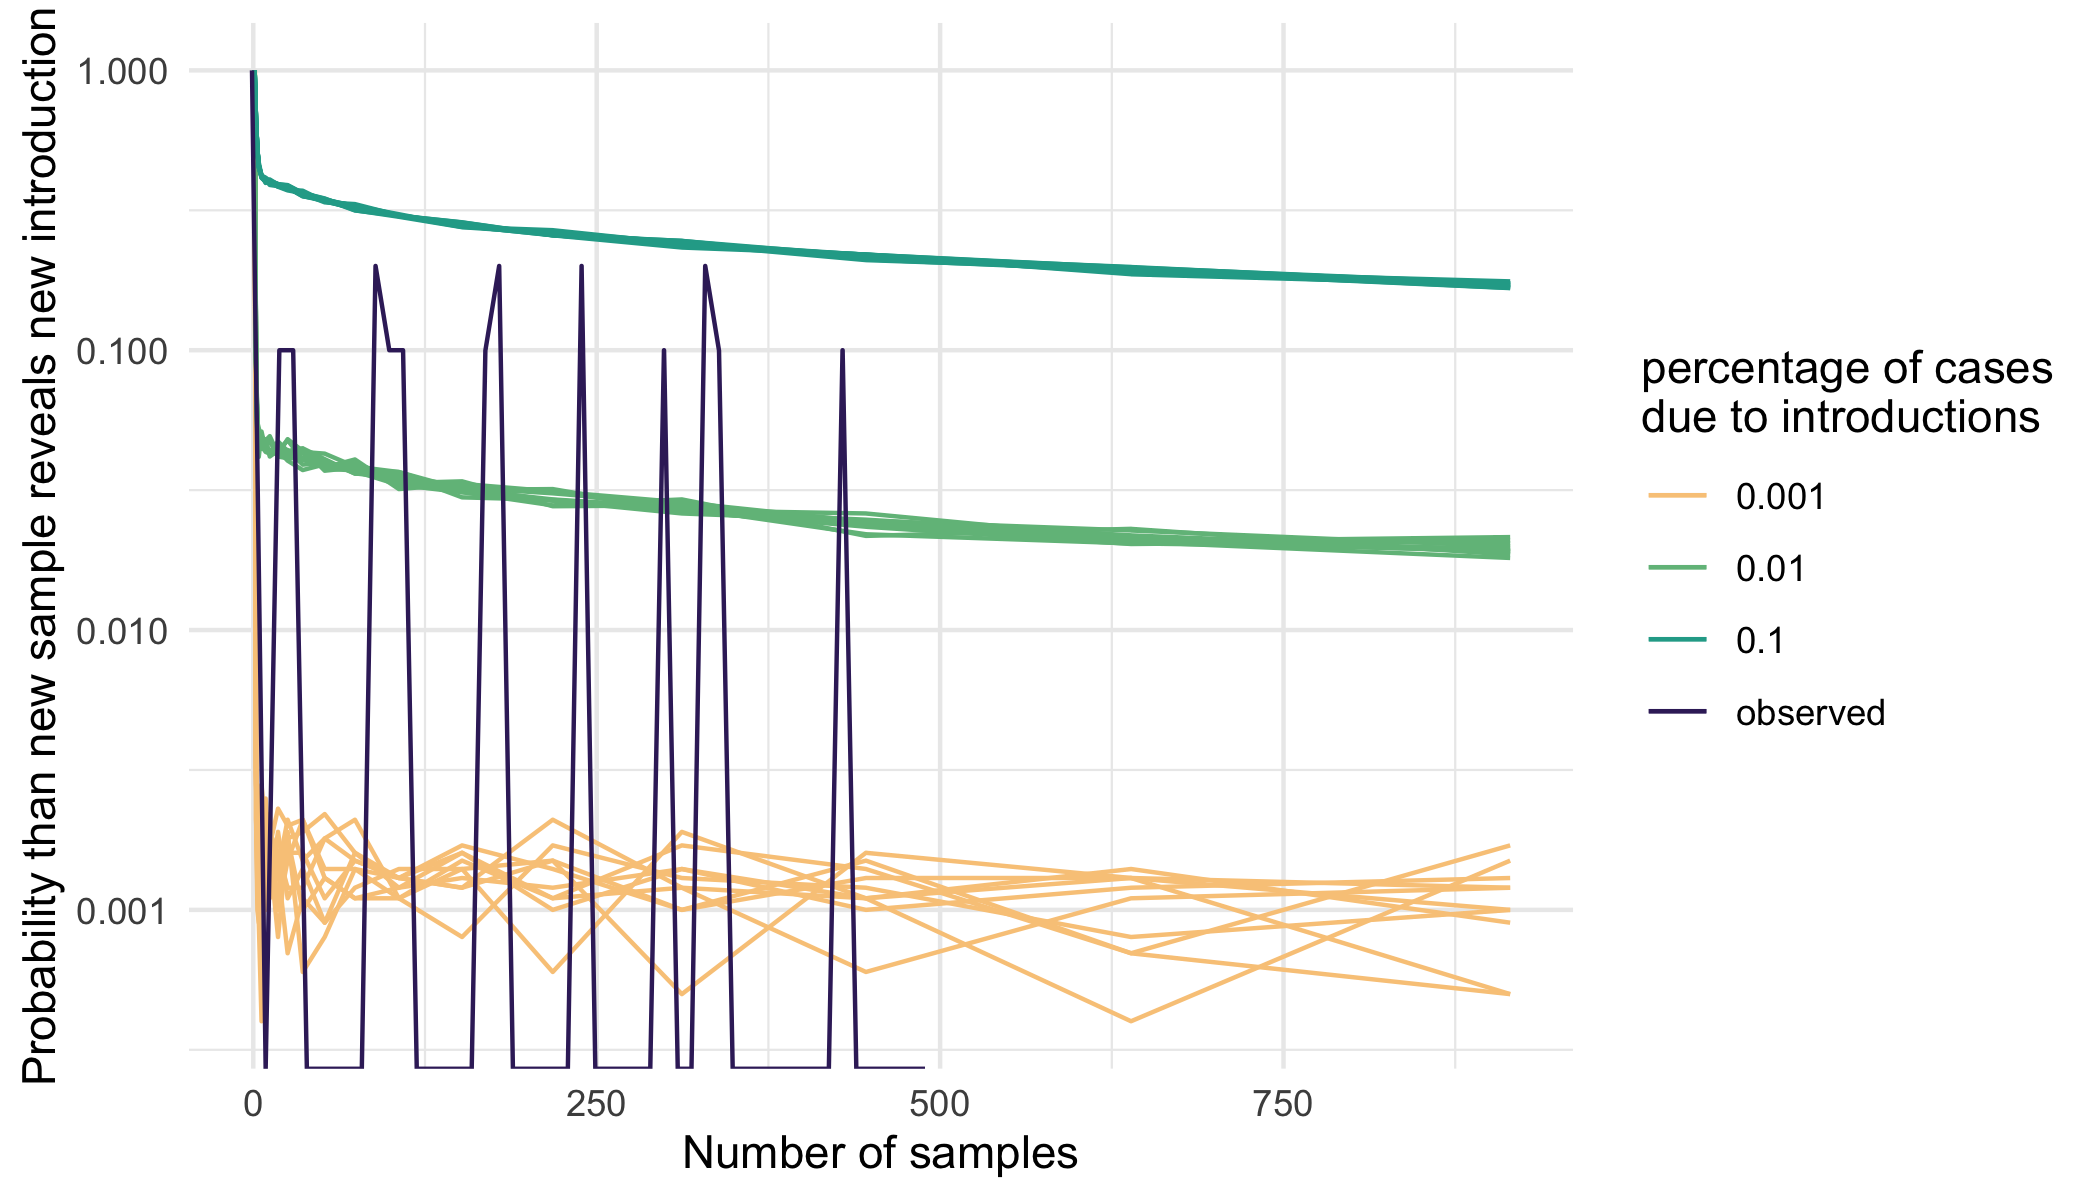
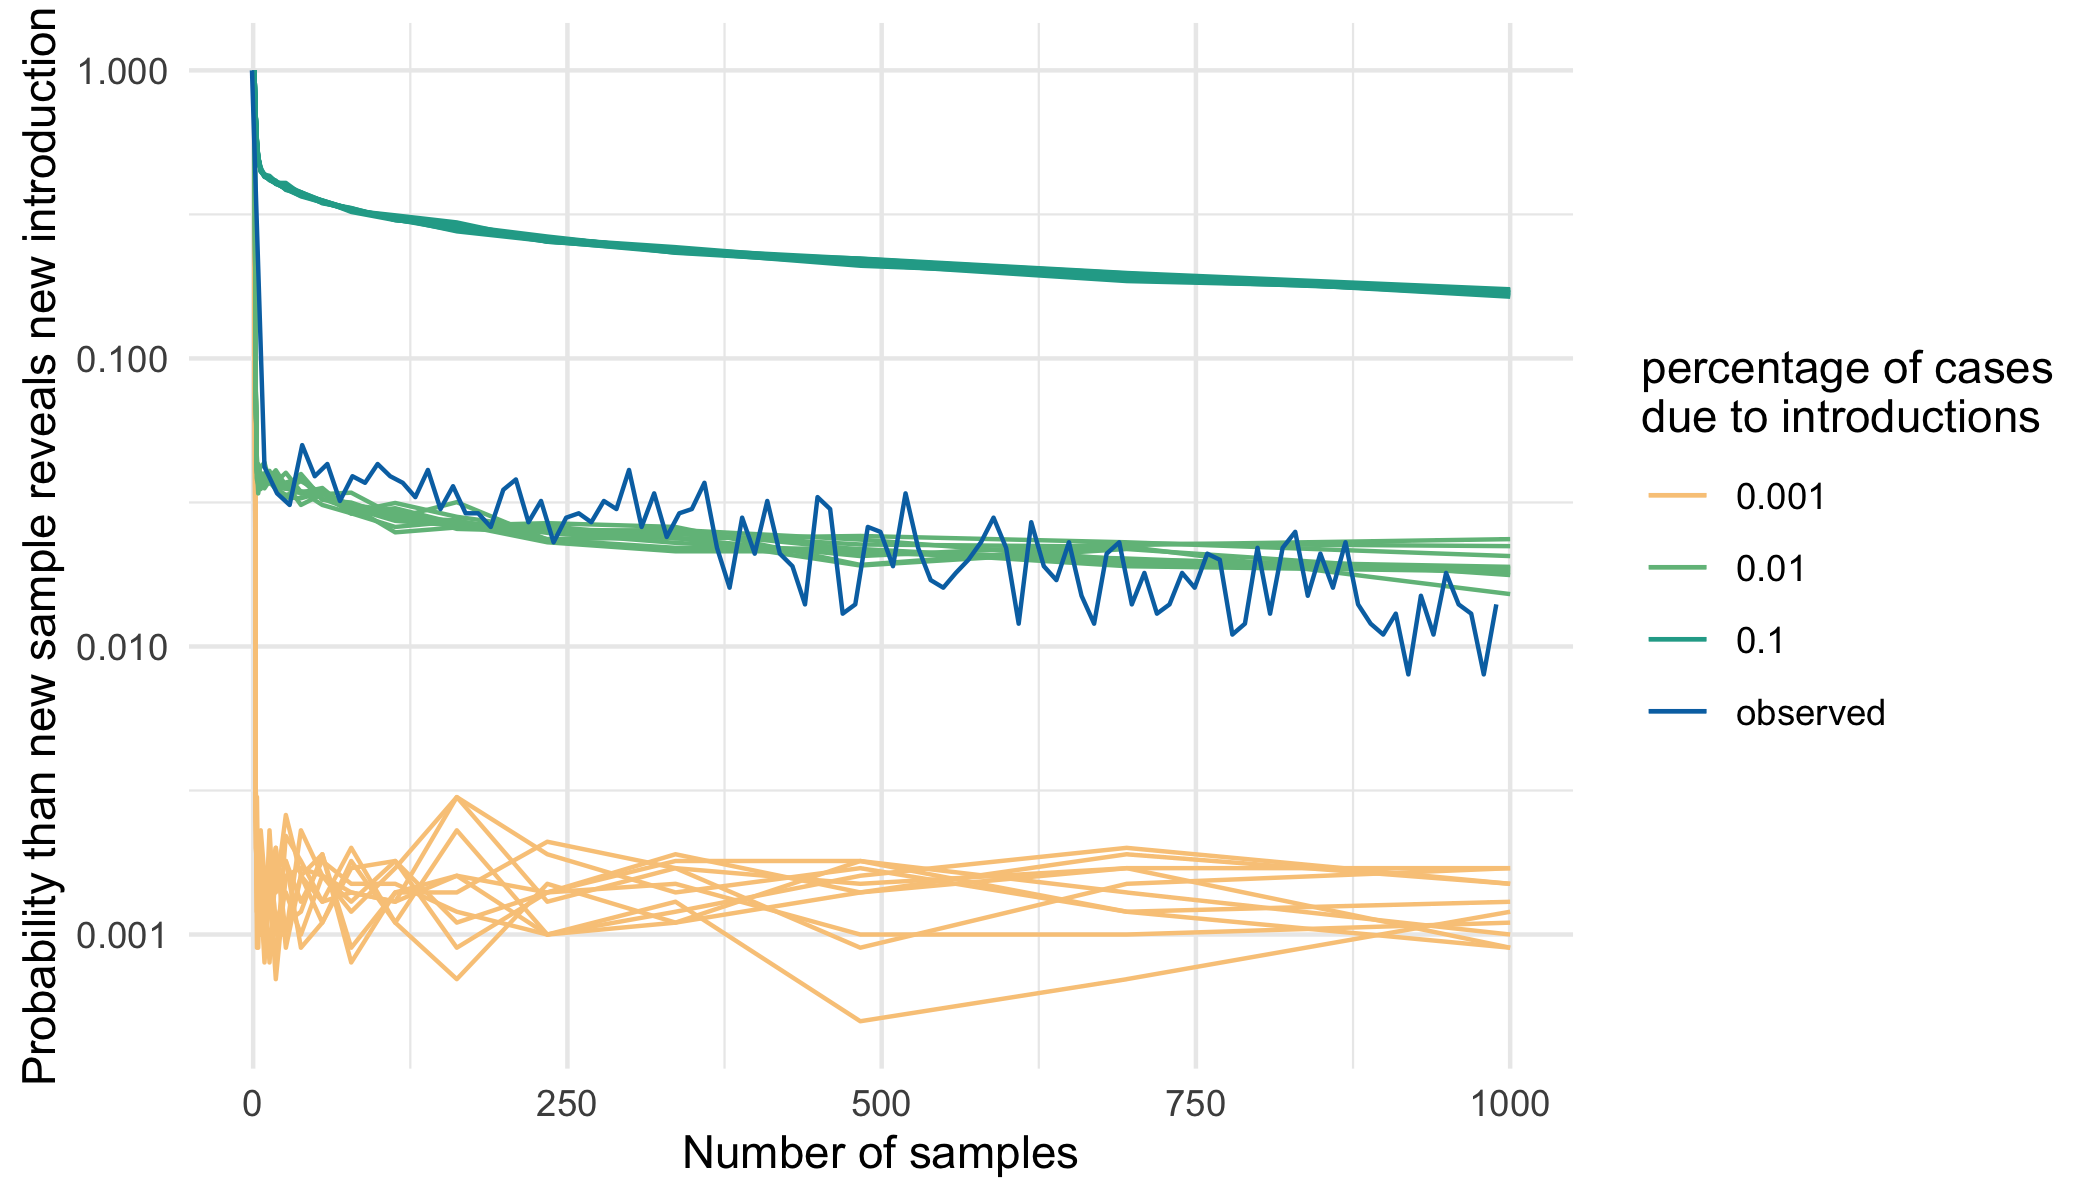
updates intro part:

diff --git a/README.md b/README.md
@@ -74,7 +74,7 @@ As for the coalescent approach, we assume adjacent effective reproduction number
 We further assume the becoming un-infectious rate to be 36.5 per year which corresponds to an average time of infectivity of 10 days ([Ferretti et al][Ferretti et al]).
 We allow that the probability of an individual to be sampled and sequenced upon recovery to change every 14 days.
 
-### Sampling of epidemiologically unlinked cases
+### Subsampling of sequences
 
 We analysed the population dynamics in total for 3 different datasets.
 In the first datasets, we randomly subsample 1000 of the sequences from Washington State.
@@ -87,8 +87,6 @@ For these two datasets, we use the same subsampling procedure as for the above d
 ## Results
 
 ### Outbreak in Washington State caused by repeated introductions
-
-
 
 SARS-CoV-2 was introduced repeatedly into Washington State from different parts of the world.
 The outbreak can be separated into two larger groups that make up the majority of cases and the majority of cases originated from at least two different introductions into Washington State.
@@ -200,13 +198,13 @@ We find that the trends in growth rates are the same in all estimates.
 </figure>
 
 
+### Introductions caused but did not sustain the outbreak
 
+As mentioned above, the Washington State outbreak can be seen as many individual outbreaks of what we consider local outbreak clusters.
+All these clusters were seeded by individual introductions into the State.
+While introductions certainly caused the outbreak in Washington State, it is, however, unclear how important they where to sustaining it.
 
-
-### Introductions caused but did not drive the outbreak
-
-While introductions certainly caused the outbreak in Washington State, it is unclear how important they where to driving it.
-To test this, we estimate the relative contribution of introduction compared to local transmission.
+To test this, we estimate the relative contribution of introductions compared to local transmission.
 As described in the Methods and Materials part, the coalescent skyline estimate from multiple local outbreak clusters allows us to estimate the rate of introduction.
 The rate of introduction $$i$$ can be described as $$\frac{I_{outside} m^{f}}{I_{WA}}$$.
 This means that the number of introductions per unit of time can be expressed as $$i * I_{WA} = I_{outside} m^{f}$$
@@ -216,7 +214,10 @@ We then compute the ratio of introductions over local transmissions as the ratio
 
 
 The resulting estimates include a large amount of assumptions and should be interpreted as such, but can nevertheless give us an idea of how important introductions overall are.
-As shown in the figure below, we estimate the percentage of new cases to be below 10 after the initial introductions and most likely to be around 1%.
+As shown in the figure below, we estimate the percentage of new cases to be below 10 after the initial introductions and most likely to be between 1% and 3%.
+
+Towards the April, the estimate increases to between 3% and 10%.
+This increase is likely driven by a decrease in the estimated local transmission, rather than and increase in the introductions.
 
 <figure>
 	<a id="fig:perc_intro"></a>
